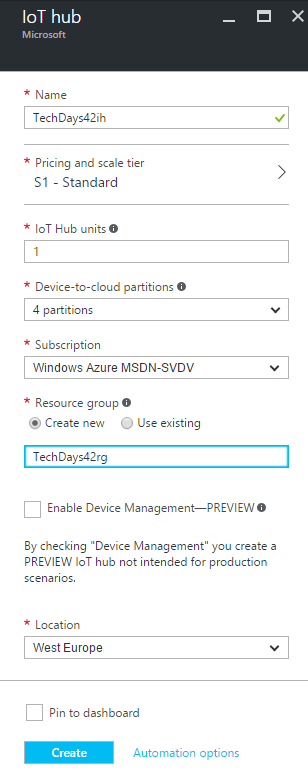
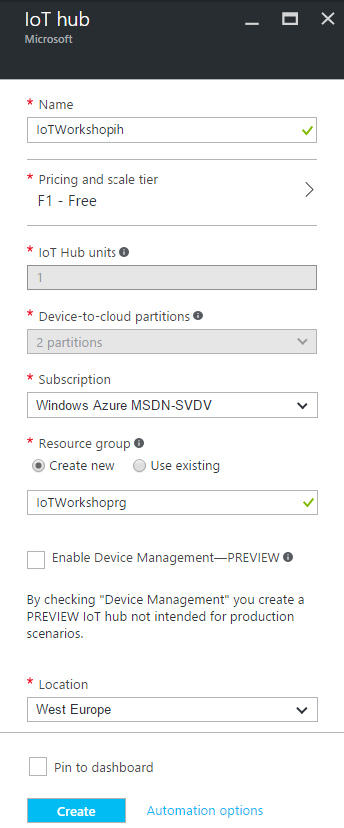
Added UWP

diff --git a/UwpToIotHub.md b/UwpToIotHub.md
@@ -47,8 +47,8 @@ Follow these steps to create an Azure IoT Hub.
 
     ![alt tag](img/UwpToIotHub/azure-portal-add.png)
 
-5. Enter a unique IoT Hub name eg. `TechDays42ih`. A green sign will be shown if the name is unique
-6. Enter a unique Resource Group eg. `TechDays42rg`. A green sign will be shown if the name is unique
+5. Enter a unique IoT Hub name eg. `IoTWorkshopih`. A green sign will be shown if the name is unique
+6. Enter a unique Resource Group eg. `IoTWorkshoprg`. A green sign will be shown if the name is unique
 7. Select `West Europe` for the location
 
     ![alt tag](img/UwpToIotHub/azure-new-iot-hub-scaled.png)
@@ -69,10 +69,152 @@ We will create a UWP app in Visual Studio. These apps are called Wniversal Windo
 
     ![alt tag](img/UwpToIotHub/vs-new-project.png)
 
+3. In the dialog, select the `Blank App (Universal Windows)` template
+
+    ![alt tag](img/UwpToIotHub/vs-universal-app-template.png)
+
+4. Select `Ok`. Iy you are asked which minimal platform version must be loaded, just press `Ok` again
+
+    ![alt tag](img/UwpToIotHub/vs-universal-anniversary.png)
+
+ 
+6. Recompile the app and check if the build completes without errors. Press `F6` or use the menu `Build|Build Solution`
+
+    ![alt tag](img/UwpToIotHub/vs-build-succeeded.png)
+
+7. Start the app by pressing `F5` or use the menu `DEBUG|Start Debugging`
+8. The app starting and an empty form is shown
+
+The app is created. You are now ready to add a connection to the IoT Hub.
 
 
+## Connect to the IoT Hub and register the app like a device
 
+Let's add a connection to IoT hub and register the app like a real device.
 
+1. Stop the running app using, if the app is on top, `ALT-F4` or the menu `DEBUG|Stop debugging`
+2. Go to the soltion Explorer to the right. You can see the application has one page called MainPage.xaml
+
+    ![alt tag](img/UwpToIotHub/vs-solution-explorer-universal-start.png)
+3. Right click `References` and select `Add Connected Service`
+
+    ![alt tag](img/UwpToIotHub/vs-iot-hub-extension.png)
+
+4. A welcome screen for the extension will be shown. Select `Azure IoT Hub` and click `Configure` to add it as a Connected Service
+
+    ![alt tag](img/UwpToIotHub/vs-iot-extension-start.png)
+
+5. Select `Hardcode shared access key` as Security Mode. Confirm with `OK`
+6. Now you will be asked to select the IoT Hub you want to connect. At this time, the Hub should be created. *If you have multiple Azure accounts, please check is the correct one is selected*
+
+    ![alt tag](img/UwpToIotHub/vs-iot-extension-select.png)
+
+7. Select your IoT Hub and press `Add`
+8. The next page of the wizard is shown. A little screen pops up asking to select or add a device. Our app will represent a device and therefor access must be granted. Select `New Device`
+
+    ![alt tag](img/UwpToIotHub/vs-device-one.png)
+
+9. Entera unique `device name` eg 'DummyDevice'
+
+    ![alt tag](img/UwpToIotHub/vs-device-two.png)
+
+10. The device is registered, unique credentials are created and these will be used by our app. Select `OK`
+
+    ![alt tag](img/UwpToIotHub/vs-device-three.png)
+
+11. The nessesary Nuget libraries are added and eventualy you will be directed to [https://github.com/Azure/azure-iot-hub-vs-cs/wiki/C%23-Usage](https://github.com/Azure/azure-iot-hub-vs-cs/wiki/C%23-Usage) for more information
+12. In the Solution Explorer of Visual Studio a new file named 'AzureIoTHub.cs' is added. This provides all logic to connect to the IoT Hub
+
+    ![alt tag](img/UwpToIotHub/vs-iot-hub-singleton.png)
+
+The AzureIoTHub can be called by our App. Let's do that.
+
+## Generate and send dummy telemetry
+
+Let's put a button on the main page of the app to send some telemetry. But first let's check out the 'AzureIoTHub.cs' file.
+
+1. `Open` the file named 'AzureIoTHub.cs'
+2. The file contains a class named which has two methods: 'SendDeviceToCloudMessageAsync' and 'ReceiveCloudToDeviceMessageAsync'. *In this workshop we will only send telemetry*
+3. The method to send data is not that intelligent. It only sends a text message. Add the following code just below it
+
+    '''csharp
+    public static async Task SendDeviceToCloudMessageAsync(Telemetry telemetry)
+    {
+        var _deviceClient = DeviceClient.CreateFromConnectionString(deviceConnectionString, TransportType.Amqp);
+
+        var message = new Message(Encoding.ASCII.GetBytes(Newtonsoft.Json.JsonConvert.SerializeObject(telemetry)));
+
+        await _deviceClient.SendEventAsync(message);
+    }
+
+    public class Telemetry
+    {
+        public int waterLevel { get; set; }
+    }
+    '''
+
+4. We have defined the Telemetry class whick will hold a water level value. The level will be send to the IoT Hub using the method. The telemetry is converted to Json.
+5. `Open` the file named 'MainPage.xaml'. The empty page will be shown both in a visual editor and a textual 'XAML' editor
+6. The page contains one component, a grid. But that is merely a container for other visual components
+7. In the XAML editor, within the grid, `add`
+
+    '''xaml
+    <StackPanel>
+        <Button Name="btnSend" Content="Send" FontSize="60" Click="btnSend_Click" />
+        <TextBlock Name="tbReceived" Text="---" FontSize="60" />
+    </StackPanel>
+    '''
+
+8. A button and a text box are put on the screen. Go to the code which will be executed when the button is clicked. Put the cursor in btnSend_Click and press `F12`
+9. The file 'MainPage.xaml.cs' is shown. All code behind the page is shown here. `Replace` the empty 'btnSend_Click' method with
+
+    '''csharp
+    private async void btnSend_Click(object sender, RoutedEventArgs e)
+    {
+        await ShowMessage("Sending...");
+
+        var t = new AzureIoTHub.Telemetry
+        {
+            waterLevel = _random.Next(1, 68)   
+        };
+
+        try
+        {
+            await AzureIoTHub.SendDeviceToCloudMessageAsync(t);
+
+            await ShowMessage("Telemetry sent");
+        }
+        catch (Exception ex)
+        {
+            await ShowMessage(ex.Message);
+        }
+    }
+
+    private Random _random = new Random((int)DateTime.Now.Ticks);
+
+    private async Task ShowMessage(string text)
+    {
+        await Dispatcher.RunAsync(
+                CoreDispatcherPriority.Normal, () =>
+                {
+                    tbReceived.Text = text;
+                });
+    }
+    '''
+
+10. The method 'btnSend_Click' now generates some random value and sends it to the Iot Hub using the access token of the device 'DummyDevice'
+11. New libraries references are introduced in this code. `Add` two using's at the top of the editor
+
+    '''csharp
+    using System.Threading.Tasks;
+    using Windows.UI.Core;
+    '''
+
+12. The app is now ready. `Run` the app and press the button. It the message 'Telemetry sent' is shown, our telemetry is accepted by the IoT Hub
+
+    ![alt tag](img/UwpToIotHub/uwp-send-telemetry.png)
+
+Now we have sent telemetry to the Event Hub. Let's check if it's arrived.
 
 
 ## Monitoring the arrival of the telemetry in Azure
@@ -80,6 +222,35 @@ We will create a UWP app in Visual Studio. These apps are called Wniversal Windo
 ![alt tag](img/arch/Picture09-monitor-incoming-data.png)
 
 We can check the arrival of messages in the Azure IoT Hub. This can be done using a UI app named Device Explorer or using a Command-Line tool named IoT Hub Explorer. `Choose one` 
+
+### Collect Azure IoT Hub secrets
+
+The integration requires an Azure IoT Hub Shared access policy key name with `Registry read, write and Device connect` permissions. In this example, we use the **iothubowner** policy which has these permissions enabled by default.
+
+1. Check the Azure portal. The resource group and the IoT Hub should be created by now
+
+    ![alt tag](img/UwpToIotHub/azure-notifications.png)
+
+2. On the left, select `Resource groups`. A list of resource groups is shown
+
+    ![alt tag](img/UwpToIotHub/azure-resource-groups.png)
+
+3. Select the resource group `TechDays42rg`. It will open a new blade with all resources in this group
+4. Select the IoT Hub `TechDays42ih`. It will open a new blade with the IoT Hub
+
+    ![alt tag](img/UwpToIotHub/azure-iot-hub-initial.png)
+
+5. The IoTHub has not received any messages yet. Check the general settings for `Shared access policies`
+
+    ![alt tag](img/UwpToIotHub/azure-iot-hub-share-access-policy.png)
+
+6. **Write down** the `name` of the IoT Hub eg. `TechDays42ih`
+7. Navigate to the 'iothubowner' policy and **write down** this `Connection String-Primary Key`
+
+    ![alt tag](img/UwpToIotHub/azure-iothubowner-policy.png)
+
+This is the secret needed from the Azure IoT Hub.
+
 
 ### Monitoring using UI
 
@@ -94,9 +265,9 @@ We can check the arrival of the messages in the Azure IoT Hub using the Device E
 
 ```
 Receiving events...
-09/23/16 21:43:47> Device: [goattrough], Data:[{"waterLevel":10}]
-09/23/16 21:43:51> Device: [goattrough], Data:[{"waterLevel":15}]
-09/23/16 21:43:53> Device: [goattrough], Data:[{"waterLevel":14}]
+10/07/16 23:14:10> Device: [DummyDevice], Data:[{"waterLevel":13}]
+10/07/16 23:14:12> Device: [DummyDevice], Data:[{"waterLevel":18}]
+10/07/16 23:14:13> Device: [DummyDevice], Data:[{"waterLevel":2}]
 ```
 
 ### Monitoring using Command-line
@@ -119,9 +290,15 @@ We can check the arrival of the messages in the Azure IoT Hub using the IoT Hub 
 7. This will result in the following messages
 
     ```
-    Monitoring events from device goattrough
+    Monitoring events from device DummyDevice
     Event received:
     {
       "waterLevel": 12
     }
     ```
+
+## Conclusion
+
+The messages are shown here too. These messages are now available in Azure.
+
+Next Step: You are now ready to process your data in an Azure Function.
